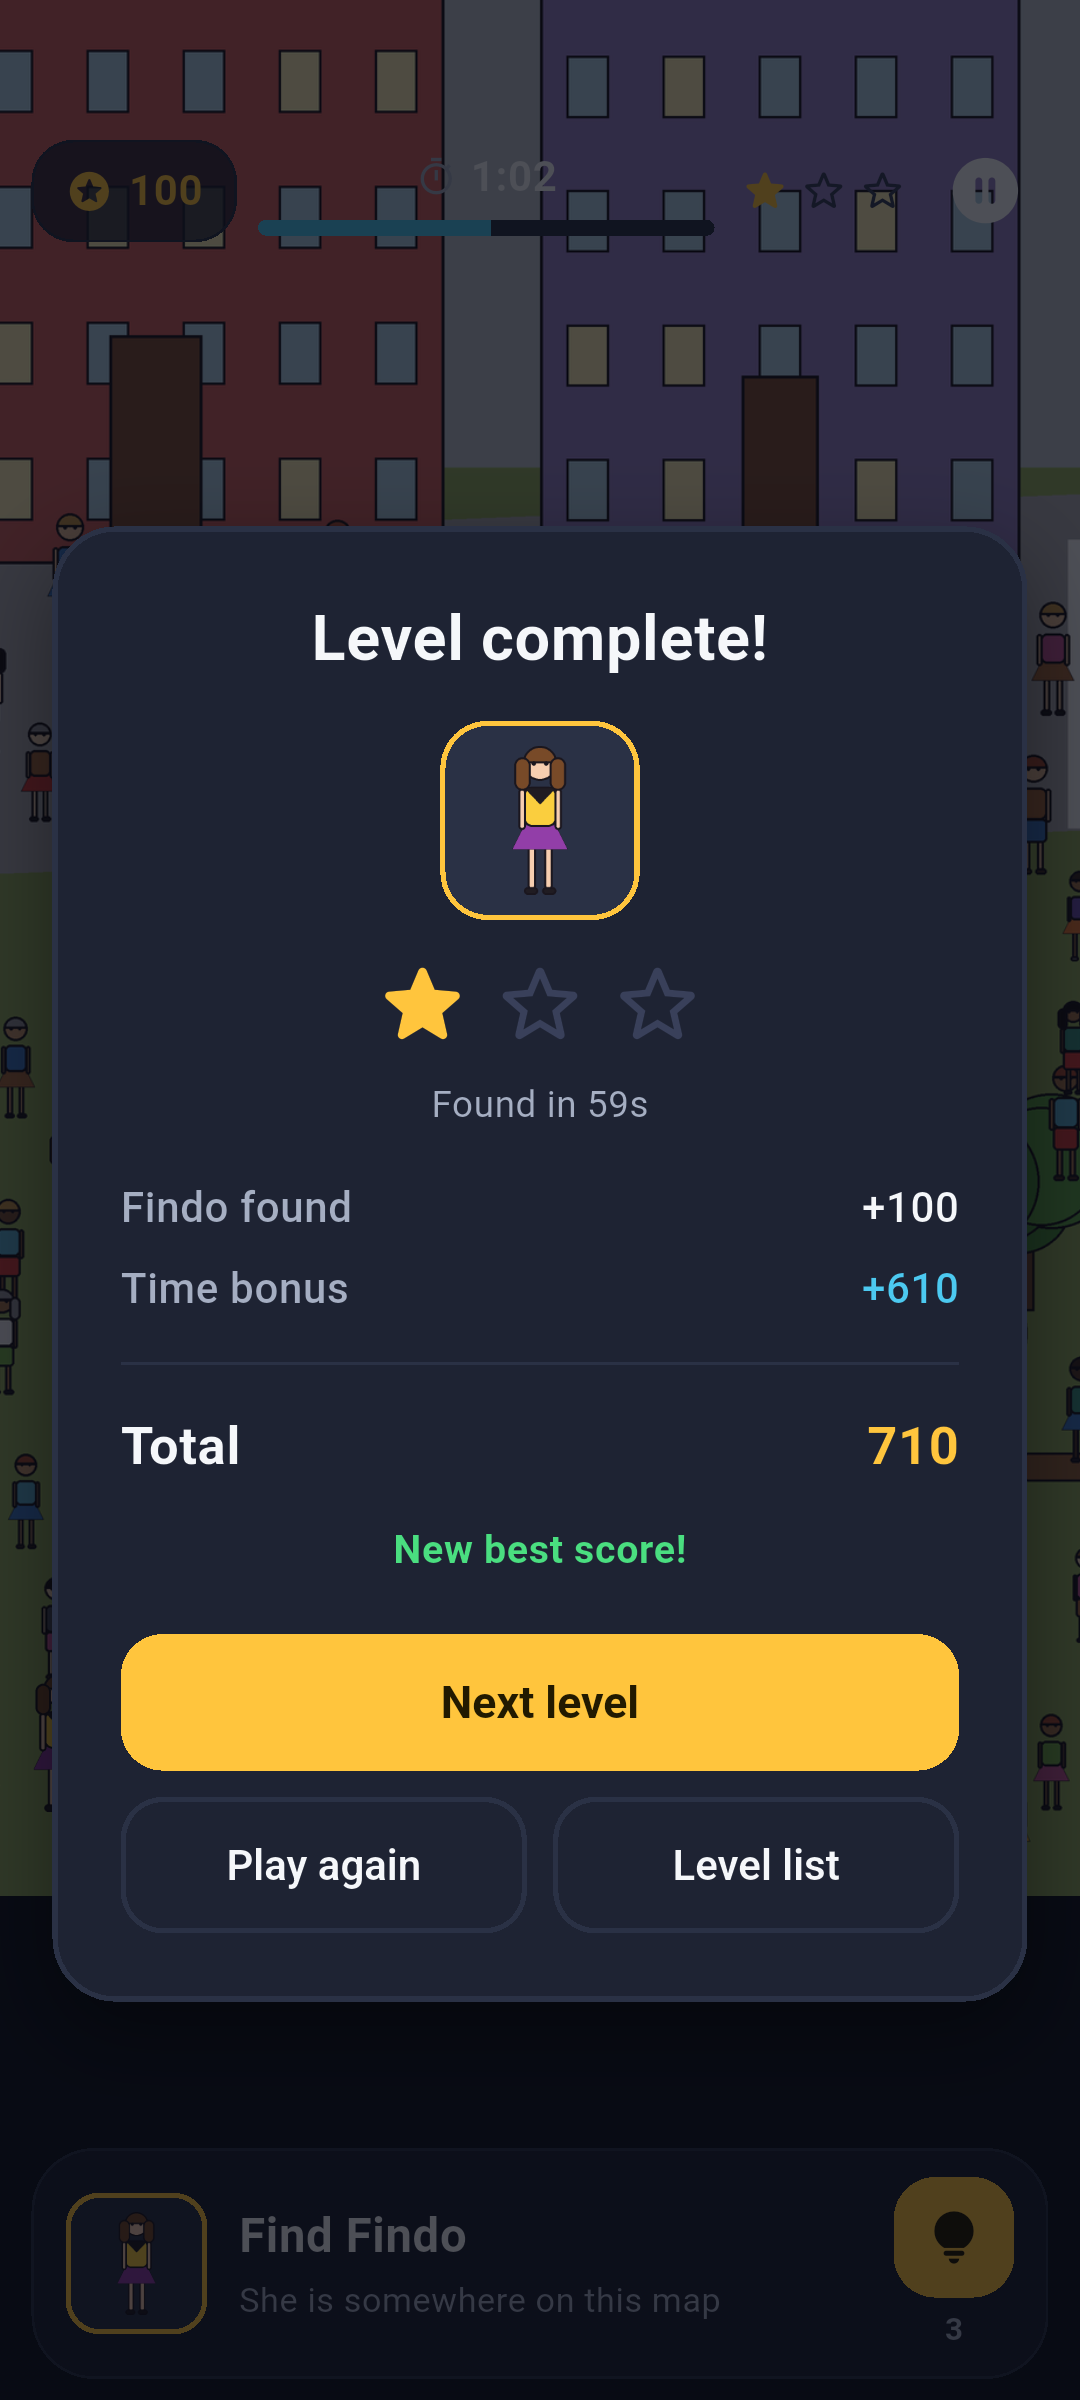
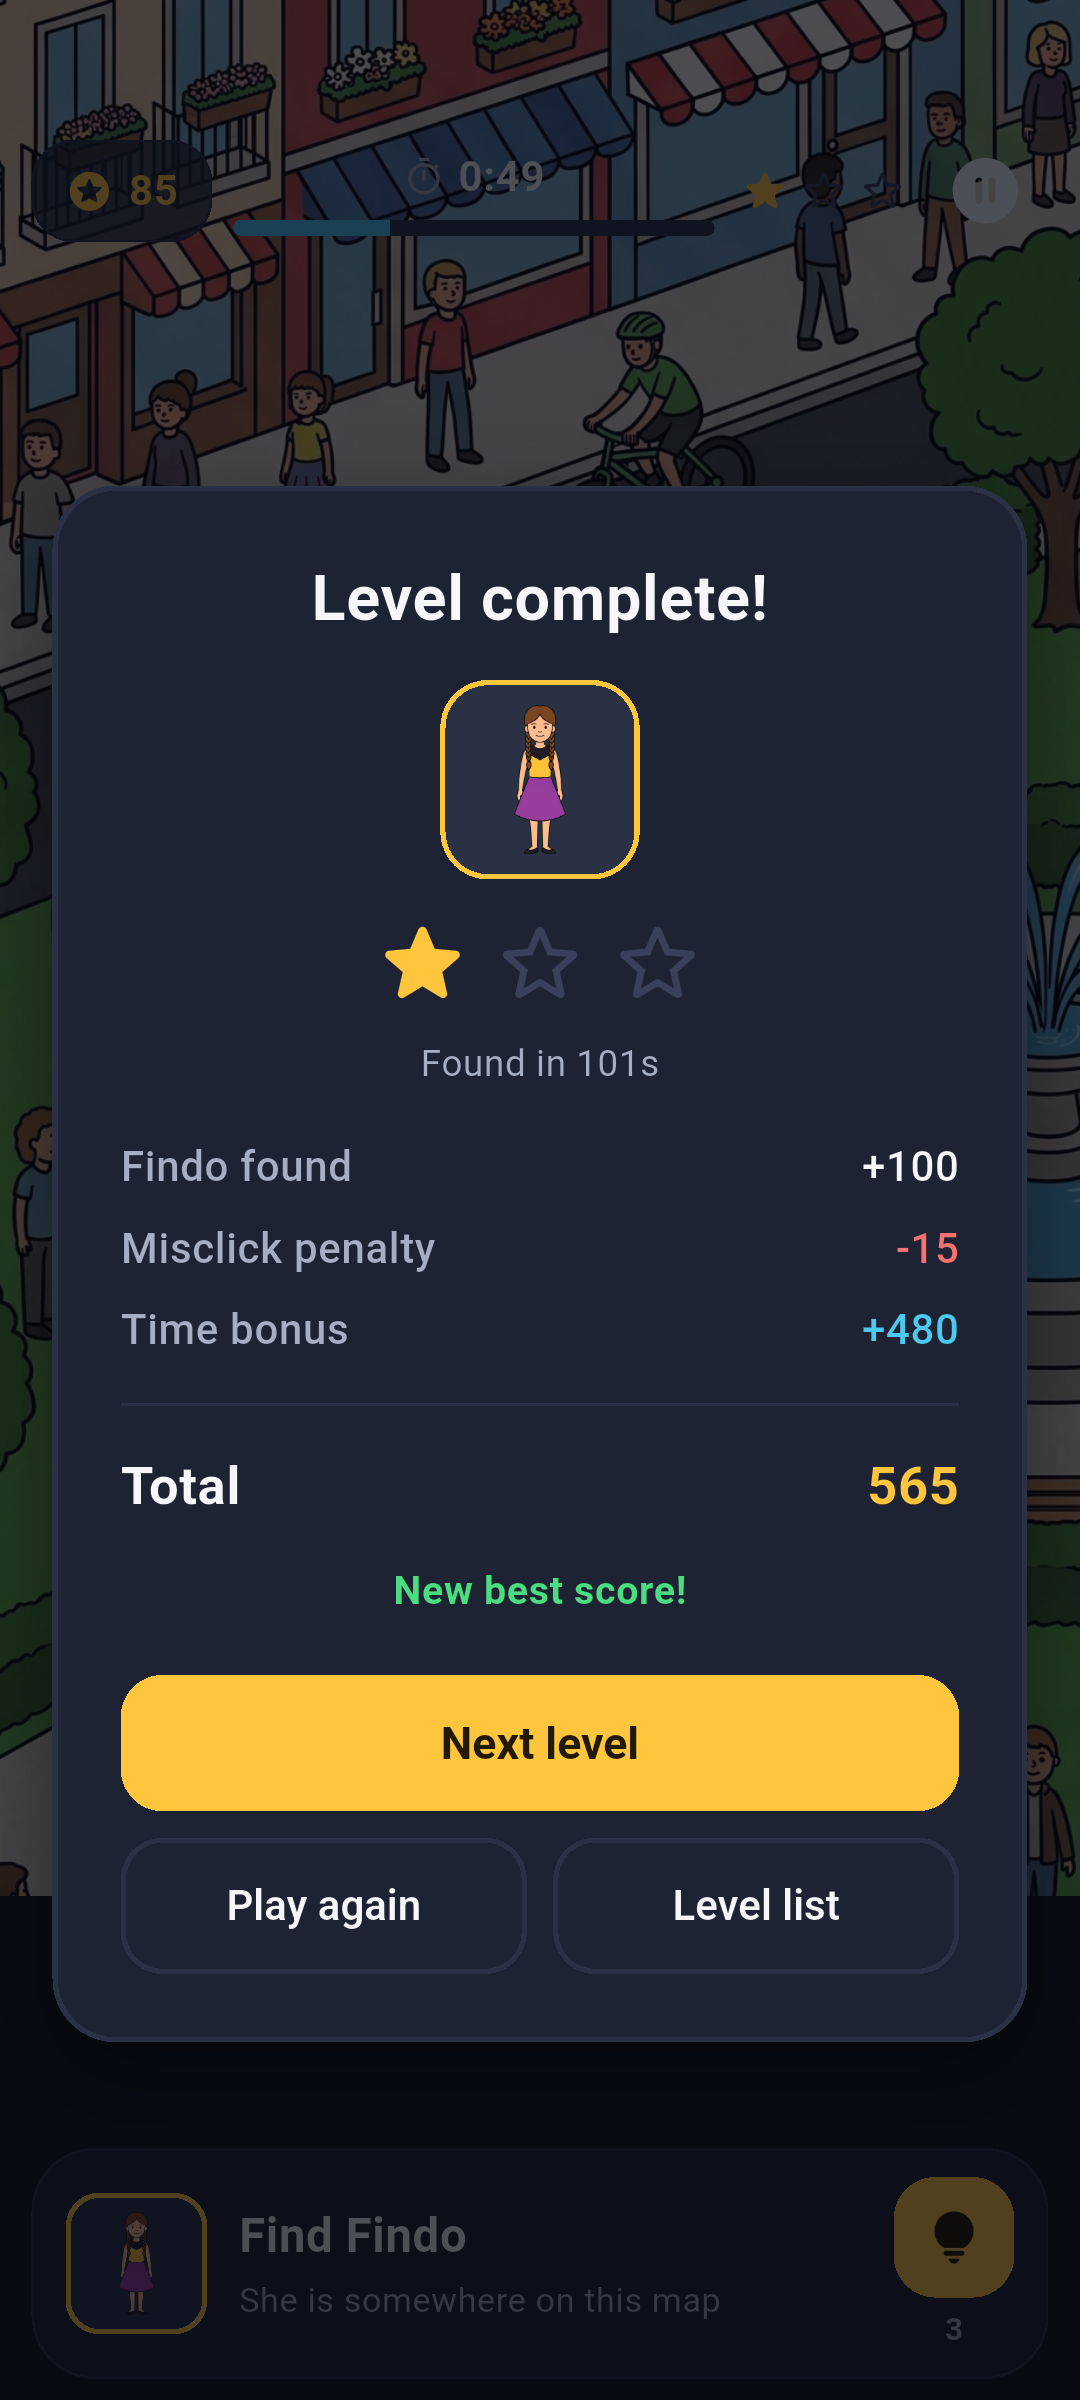
Ship the illustrated maps and the real character
All ten levels now run on hand-illustrated artwork instead of the geometric
placeholders, composited and registered with tool/build_level.py.

Three things the real assets forced.

The maps could not ship as PNG. These are dense illustrations: one measured
5.9 MB as a PNG, and ten of them would have been a 60 MB download against a
15 MB budget. They ship as WebP at quality 92 instead, which is 0.74 to 1.21 MB
each and about 9 MB for the set, with no visible difference at any zoom the
game allows. Flutter decodes WebP on both platforms, and the emulator run
confirms it.

Fountain Square contained a second Findo. The supplied artwork had a woman in a
yellow top and a violet skirt: two of the three signature traits, which reads
as the target but cannot be registered, so a player who spots her is penalised
for finding the right-looking person. Rather than ask the generator again,
build_level.py now shifts every pixel near her skirt colour to #6C52B0 before
compositing her in, and reports the count. The brief's central rule -- that
#923EA8 is hers alone -- is enforced rather than hoped for.

Automatic placement had to change. Picking the spot with the densest black
outlines put her on a stable wall, inside a glass roof and on a chalet roof,
because structures have outlines too. Choosing by skin-tone density finds
people instead, and all ten now stand on plausible ground inside a crowd.

Verified on an Android 15 emulator with the signed release build: the ten
[…]

diff --git a/tool/build_level.py b/tool/build_level.py
@@ -40,6 +40,13 @@ MAP_SIDE = 2048
 # How close a pixel must be to the corner colour to count as background.
 KEY_TOLERANCE = 68
 
+# Findo's skirt. The brief says this colour is hers alone on every map, because
+# it is the one thing a player's eye can be trained on. Generators do not obey
+# that, so the rule is enforced here instead of hoped for.
+FINDO_SKIRT = (146, 62, 168)
+ALTERNATE_PURPLE = (108, 82, 176)
+SKIRT_TOLERANCE = 70
+
 
 def fit_square(image: Image.Image, side: int = MAP_SIDE) -> tuple[Image.Image, str]:
     """Centre-crops to square, then scales to exactly [side].
@@ -67,6 +74,30 @@ def fit_square(image: Image.Image, side: int = MAP_SIDE) -> tuple[Image.Image, s
         notes.append(f"scaled {width}px to {side}px")
 
     return image.convert("RGB"), "; ".join(notes) or "already the right size"
+
+
+def free_the_skirt_colour(scene: Image.Image) -> tuple[Image.Image, int]:
+    """Shifts anything already wearing Findo's violet to a different purple.
+
+    Without this a crowd can contain a figure in her exact skirt -- and in the
+    supplied Fountain Square artwork one of them also wore a yellow top, which
+    is two of her three signature traits and reads as a second Findo the game
+    cannot register. Each matching pixel keeps its own deviation from the
+    source colour, so shading and outlines survive the shift.
+    """
+    import numpy as np
+
+    pixels = np.asarray(scene.convert("RGB")).astype(np.int16)
+    source = np.array(FINDO_SKIRT, dtype=np.int16)
+    target = np.array(ALTERNATE_PURPLE, dtype=np.int16)
+
+    distance = np.abs(pixels - source).sum(axis=2)
+    hit = distance < SKIRT_TOLERANCE
+    count = int(hit.sum())
+    if count:
+        pixels[hit] = np.clip(pixels[hit] - source + target, 0, 255)
+
+    return Image.fromarray(pixels.astype("uint8"), "RGB"), count
 
 
 def key_out_background(image: Image.Image, tolerance: int = KEY_TOLERANCE) -> Image.Image:
@@ -174,6 +205,11 @@ def cmd_level(args: argparse.Namespace) -> int:
     scene, note = fit_square(Image.open(scene_path))
     print(f"scene: {note}")
 
+    scene, recoloured = free_the_skirt_colour(scene)
+    if recoloured:
+        print(f"  shifted {recoloured:,} pixels off Findo's skirt colour, so it "
+              f"is hers alone on this map")
+
     findo = Image.open(FINDO).convert("RGBA")
     height = args.height
     width = max(1, round(findo.width * height / findo.height))
@@ -192,8 +228,13 @@ def cmd_level(args: argparse.Namespace) -> int:
     scene.paste(findo, (x, y), findo)
 
     MAPS.mkdir(parents=True, exist_ok=True)
-    map_name = f"{args.id}.png"
-    scene.save(MAPS / map_name, optimize=True)
+    # WebP, not PNG. These are dense illustrations: the same map is 5.9 MB as a
+    # PNG and 0.8 MB as WebP at quality 92, and ten of them is the difference
+    # between a 15 MB download and a 60 MB one. Flutter decodes WebP on both
+    # Android and iOS. Hand-drawn masters stay lossless PNG; this is only the
+    # shipping copy.
+    map_name = f"{args.id}.webp"
+    scene.save(MAPS / map_name, "WEBP", quality=92, method=6)
     size_mb = (MAPS / map_name).stat().st_size / 1_048_576
     print(f"wrote {(MAPS / map_name).relative_to(ROOT)} at {MAP_SIDE}x{MAP_SIDE}, {size_mb:.2f} MB")
     if size_mb > 1.5:

diff --git a/docs/ART_BRIEF.md b/docs/ART_BRIEF.md
@@ -8,11 +8,21 @@ game measures, and `tool/level_data.py` rejects work that misses them.
 
 ## 0. How the game uses what you deliver
 
-One map per level. **Findo is painted into the map by you** — the game does not
-paste her on top. It is handed a rectangle saying where she ended up, and puts
-an invisible hit area there. That is deliberate: it means you can tuck her
-behind a lamppost, light her like the rest of the scene, and draw her in the
-same hand as everyone else.
+One map per level. **Findo is part of the map artwork before the game ever sees
+it** — the game never composites her at runtime. It is handed a rectangle saying
+where she ended up and puts an invisible hit area there.
+
+There are two ways she gets into the artwork, and the game cannot tell them
+apart:
+
+- **An illustrator draws her in.** Preferred. You can tuck her behind a
+  lamppost, light her like the rest of the scene, and draw her in the same hand
+  as everyone else. Then hand over her bounding box.
+- **The tool pastes her in.** What happens with generated scenes, where the
+  model is asked to leave her out entirely: `tool/build_level.py` places the
+  master at the size the level calls for and records the box itself. She is
+  then pixel-identical everywhere, at the cost of no occlusion and no
+  scene-specific lighting.
 
 The player sees the whole map shrunk to fit the phone, then pinches in up to
 **3.2x**. So the map has to read at both extremes: a legible crowd when zoomed
@@ -69,8 +79,12 @@ reach about halfway down the torso.
 
 `findo.png` — the character alone, transparent background, **at least 800 px
 tall**, PNG-32, trimmed so the image bounds touch her silhouette on all four
-sides. This is the master; every map's version of her is this figure redrawn at
-the map's scale, not a resized paste.
+sides.
+
+This is the master, and it is also what the game uses for her portrait in the
+objective bar and for the shape of her tap area. When an illustrator draws her
+into a scene, they redraw this figure at the map's scale rather than pasting a
+resized copy; when the tool composites her, it scales this file directly.
 
 ---
 
@@ -79,15 +93,22 @@ the map's scale, not a resized paste.
 | Property | Requirement |
 | --- | --- |
 | Dimensions | **exactly 2048 x 2048 px** |
-| Format | PNG-24, **no alpha channel** |
+| Delivery format | PNG-24 or high-quality JPEG, **no alpha channel** |
 | Colour space | sRGB |
-| File size | **at most 1.5 MB** after optimization |
-| File name | `level_01.png` … `level_10.png` |
+| Shipping format | WebP, written by `tool/build_level.py` -- do not hand-convert |
+| Shipped size | **at most 1.5 MB** per map |
+| File name | `level_01` … `level_10`, extension as delivered |
 | Location | `assets/images/maps/` |
 
 Square, because the camera has to cover both a tall phone held upright and the
-same phone on its side. Ten maps at 1.5 MB is 15 MB of the download; going over
-that is the difference between an install people finish and one they abandon.
+same phone on its side.
+
+Hand over the master in whatever lossless or near-lossless format you work in.
+The build tool re-encodes it to WebP, which is what the app ships: these are
+dense illustrations, and one of them measured 5.9 MB as a PNG against 0.8 MB as
+WebP at quality 92, with no visible difference at any zoom the game allows. Ten
+maps as PNG would have been a 60 MB download; as WebP the whole set is about
+9 MB. Flutter decodes WebP on both Android and iOS.
 
 ### Style
 
@@ -244,14 +265,27 @@ translated name or the level numbering has a gap.
 
 ---
 
-## 6. Placeholder art currently in the repo
+## 6. What is in the repo now
 
-Three generated maps ship today so the game runs: `level_01` through
-`level_03`, built by `tool/generate_maps.py`. They are geometric, not
-illustrated, and exist to be replaced. They do follow the rules above — the same
+All ten maps are illustrated and in place, generated from the prompts in
+`docs/GEMINI_PROMPTS.md` and composited with `tool/build_level.py`.
+
+`tool/generate_maps.py` still builds the original geometric placeholders. It is
+kept as a working reference for what these rules mean in practice: the same
 routine draws Findo and the crowd, and it refuses to give any crowd member two
-of her traits — so they are a working reference for what the rules mean in
-practice.
+of her signature traits.
 
-Replacing one is dropping in the new file and re-running the register command.
+### The rule the tool enforces for you
+
+This brief says `#923EA8` is Findo's alone. Generators do not obey that. The
+supplied Fountain Square artwork contained a woman in a yellow top *and* a
+violet skirt -- two of the three signature traits, which reads as a second Findo
+the game cannot register, and a player who taps her is penalised for finding
+the right-looking person.
+
+So `tool/build_level.py` shifts every pixel near her skirt colour to `#6C52B0`
+before compositing her in, and reports how many it moved. After that the colour
+really is hers, on every map, whoever drew it.
+
+Replacing a map is dropping in the new file and re-running its build command.
 Nothing in the Dart code names a particular map.

diff --git a/store/UPLOAD_CHECKLIST.md b/store/UPLOAD_CHECKLIST.md
@@ -13,7 +13,7 @@ Status of every gate Play checks, and who has to close it.
 | 3 | **App icon, all densities** | `mipmap-{m,h,xh,xxh,xxx}dpi/ic_launcher.png`, plus an Android 13 adaptive and monochrome layer and the iOS icon set. Generated by `tool/generate_brand.py`. |
 | 4 | **512x512 store icon** | `store/icon-512.png`, RGB, no alpha. |
 | 5 | **1024x500 feature graphic** | `store/feature-graphic-1024x500.png`, RGB, no alpha. |
-| 6 | **Phone screenshots** | Four at `store/screenshots/`, 1080x2400 RGB, captured from a real run of the signed release build: title, level list, a hunt in progress, and the completion panel. |
+| 6 | **Phone screenshots** | Five at `store/screenshots/`, 1080x2400 RGB, captured from a real run of the signed release build on the illustrated maps: title, level list, a hunt in Fountain Square, the completion panel, and the Hebrew level list for the he-IL listing. |
 | 7 | **Listing text, English and Hebrew** | `store/LISTING.md`, every field measured against Play's character limits. |
 | 8 | **Privacy policy document** | `docs/privacy-policy.html`, English and Hebrew. Still needs hosting — see below. |
 | 9 | **Data safety answers** | `store/LISTING.md`, matched to what the code actually does. |
